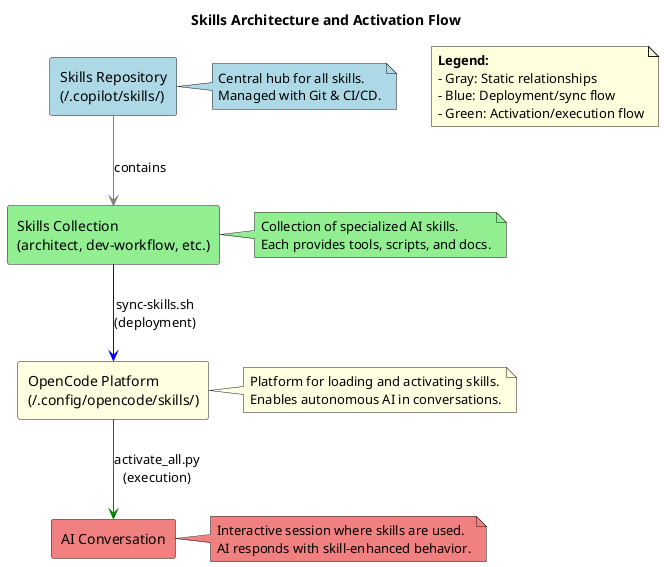
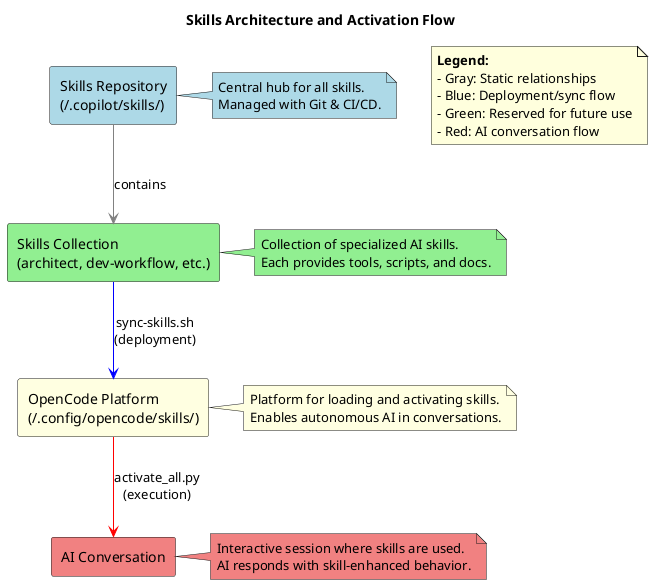
feat(dev-workflow): add red legend and auto-verification to diagram generation
- Added red color to legend and conversation flow arrow.
- Implemented PNG verification (existence, size) in generate_diagrams.py.
- Added auto-correction with up to 5 retry attempts on failure.
- Updated SKILL.md to document verification and iteration.

diff --git a/dev-workflow/scripts/generate_diagrams.py b/dev-workflow/scripts/generate_diagrams.py
@@ -42,22 +42,17 @@ def install_plantuml_via_sys_env():
         return False
 
 
-def generate_diagram(diagram_name):
-    """Generate PNG from .puml file."""
-    puml_file = (
-        Path(__file__).parent.parent / "assets" / "diagrams" / f"{diagram_name}.puml"
-    )
-    if not puml_file.exists():
-        print(f"Error: {puml_file} not found.")
-        sys.exit(1)
-
-    try:
-        subprocess.run(["plantuml", str(puml_file)], check=True)
-        png_file = puml_file.with_suffix(".png")
-        print(f"Diagram generated: {png_file}")
-    except subprocess.CalledProcessError as e:
-        print(f"Error generating diagram: {e}")
-        sys.exit(1)
+def verify_diagram(png_file):
+    """Verify the generated PNG diagram."""
+    if not png_file.exists():
+        print(f"PNG file not found: {png_file}")
+        return False
+    size = png_file.stat().st_size
+    if size == 0:
+        print(f"PNG file is empty: {png_file}")
+        return False
+    print(f"PNG verified: {png_file} ({size} bytes)")
+    return True
 
 
 def main():
@@ -67,12 +62,33 @@ def main():
         sys.exit(1)
 
     diagram_name = sys.argv[2]
+    puml_file = (
+        Path(__file__).parent.parent / "assets" / "diagrams" / f"{diagram_name}.puml"
+    )
+    if not puml_file.exists():
+        print(f"Error: {puml_file} not found.")
+        sys.exit(1)
+    png_file = puml_file.with_suffix(".png")
 
-    if not check_plantuml():
-        if not install_plantuml_via_sys_env():
+    max_attempts = 5
+    for attempt in range(1, max_attempts + 1):
+        if not check_plantuml():
+            if not install_plantuml_via_sys_env():
+                print(f"Installation failed on attempt {attempt}.")
+                continue
+        try:
+            subprocess.run(
+                ["plantuml", str(puml_file)], check=True, capture_output=True
+            )
+            print(f"Diagram generated on attempt {attempt}: {png_file}")
+            if verify_diagram(png_file):
+                print(f"Diagram verified successfully on attempt {attempt}.")
+                break
+        except subprocess.CalledProcessError as e:
+            print(f"Generation failed on attempt {attempt}: {e}")
+        if attempt == max_attempts:
+            print("Max attempts reached. Diagram generation failed.")
             sys.exit(1)
-
-    generate_diagram(diagram_name)
 
 
 if __name__ == "__main__":

diff --git a/dev-workflow/SKILL.md b/dev-workflow/SKILL.md
@@ -91,6 +91,7 @@ python3 scripts/generate_diagrams.py --diagram <diagram_name>
 ```
 - Checks for PlantUML installation; if missing, integrates with @sys-env for safe installation on Arch Linux.
 - Generates PNG in the same directory as the .puml file.
+- Verifies PNG (existence, size >0) and auto-corrects by retrying up to 5 times if fails.
 - Example: `python3 scripts/generate_diagrams.py --diagram skills-architecture` creates `skills-architecture.png`.
 
 ## Inputs and Outputs
